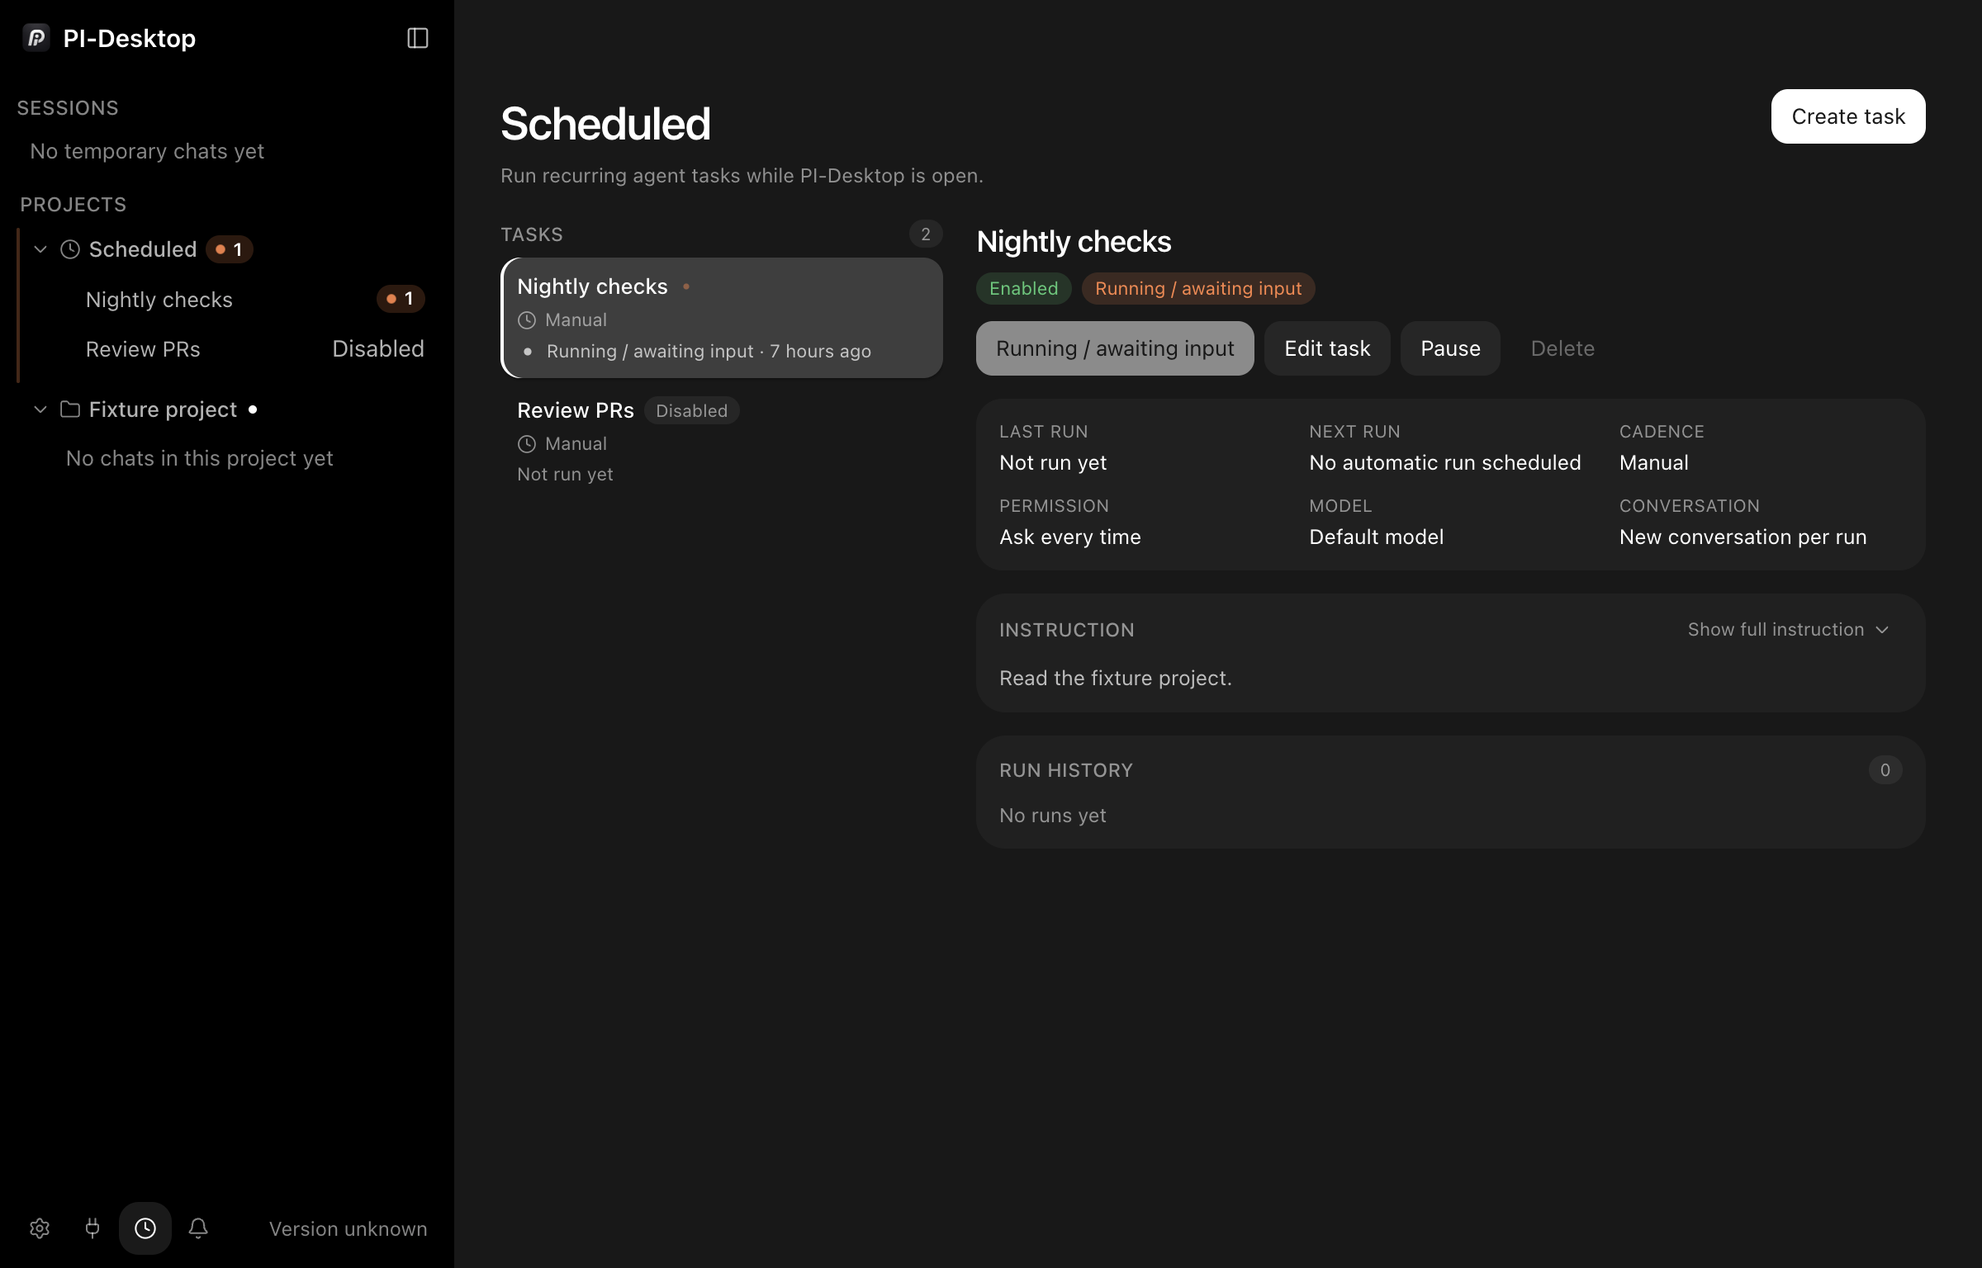
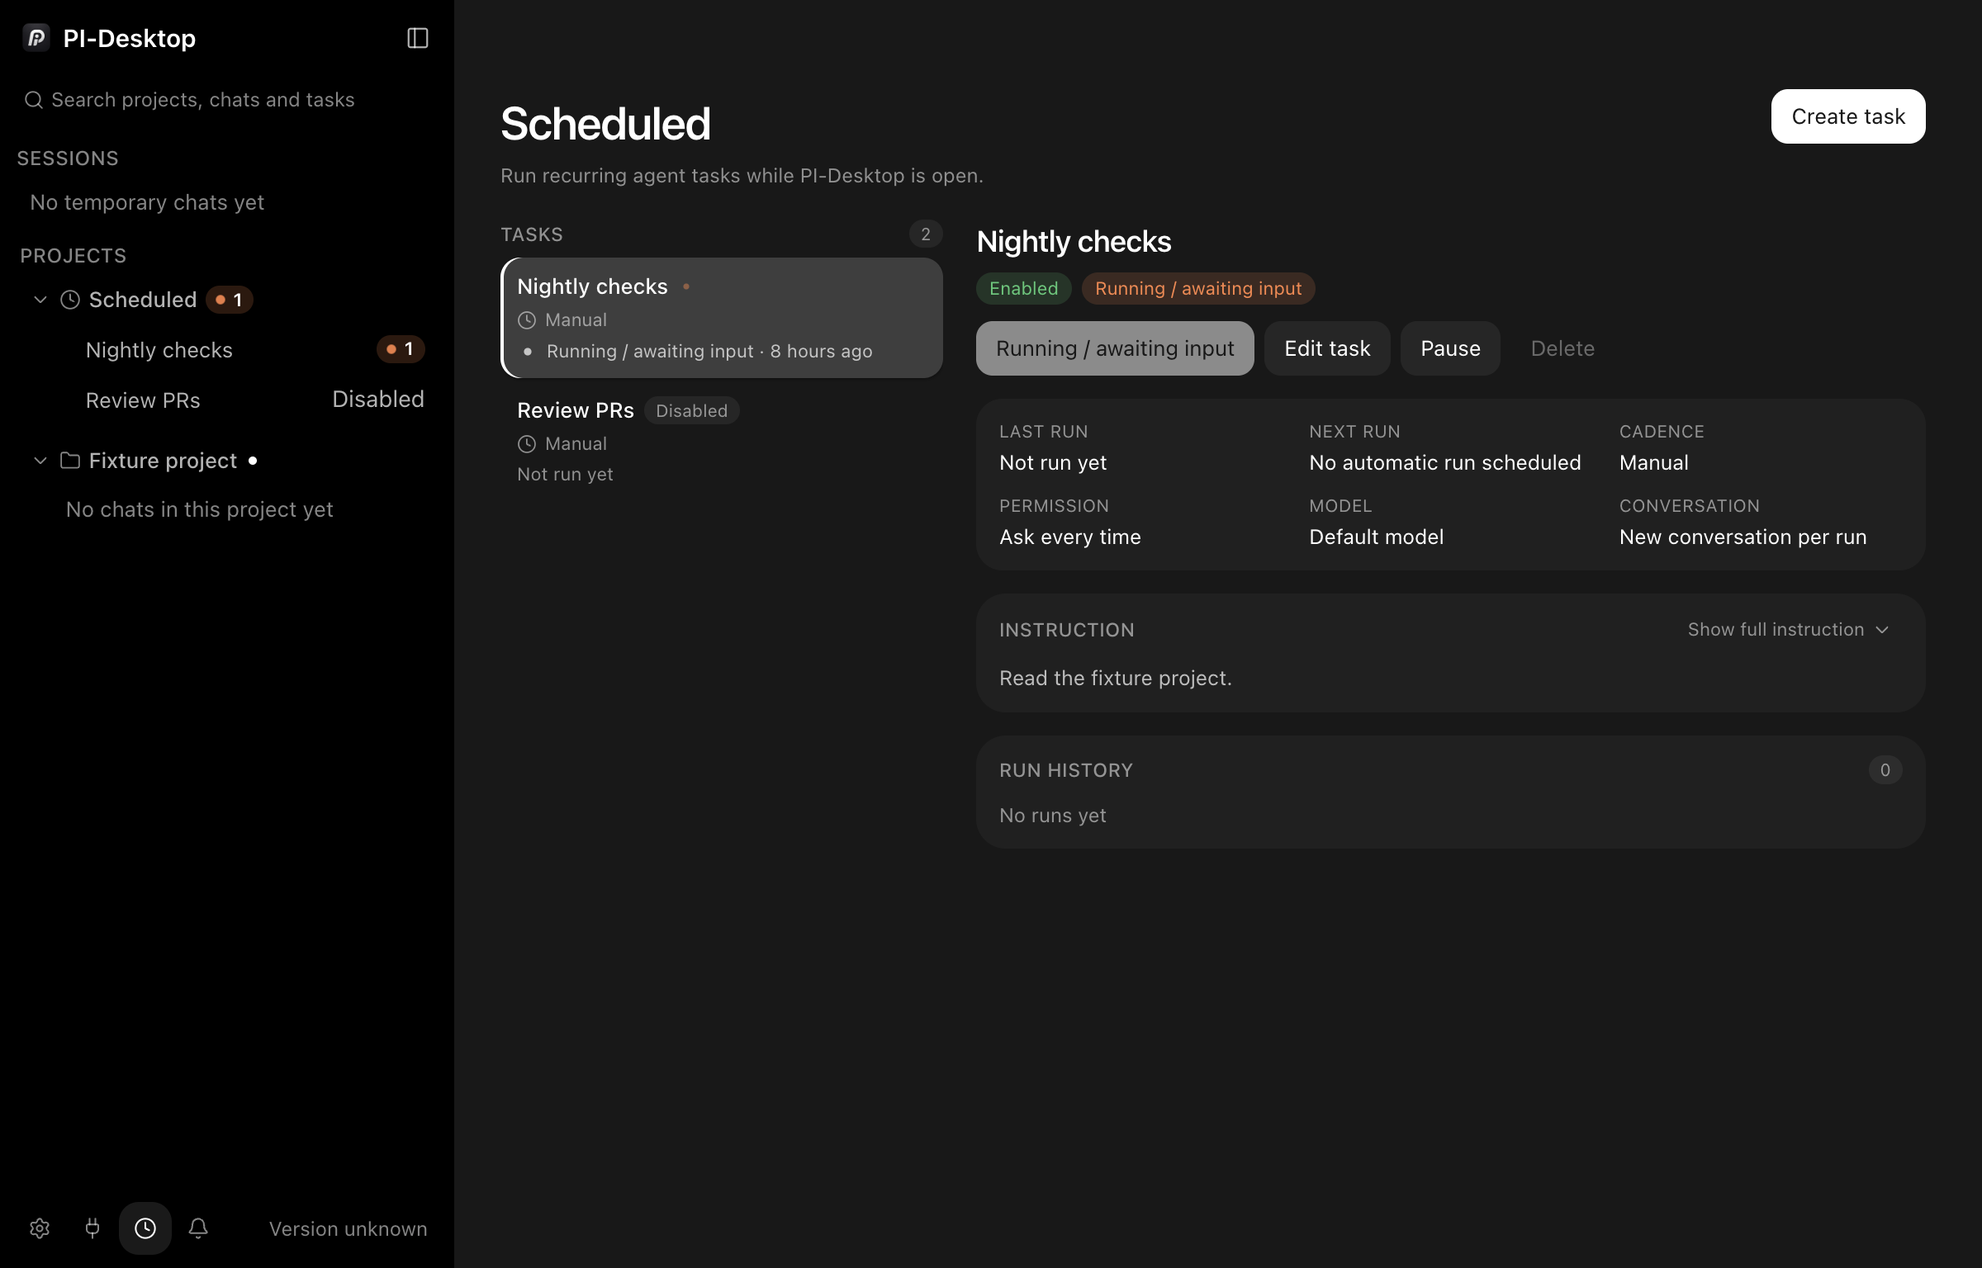
feat(sidebar): filter scheduled shortcuts with sidebar search
Make the display preference control task-name search, with temporary
expansion that preserves the saved fold state. Reuse the existing
sidebar query so task matches and empty states stay consistent.

Keep reads independent of query changes and exclude hidden results
from batch selection. Exercise the real renderer path with synthetic
IPC, including settings reload, loading, errors and stale responses.

diff --git a/apps/desktop/src/components/Sidebar.tsx b/apps/desktop/src/components/Sidebar.tsx
@@ -1,5 +1,6 @@
 import { IconClock } from "./icons";
 import { ScheduledSidebarGroup } from "../features/scheduled/ScheduledSidebarGroup";
+import { useSidebarScheduledTasks } from "../features/scheduled/use-sidebar-scheduled-tasks";
 import { RemoteProjectGroups } from "./remote/RemoteProjectGroups";
 import { groupRemoteProjectSessions, type RemoteProjectGroup } from "../lib/remote-project-catalog";
 import { isRemoteSession, sessionAllows } from "../lib/remote-session-safety";
@@ -16,7 +17,7 @@ import {
   type MouseEvent as ReactMouseEvent,
   type PointerEvent as ReactPointerEvent,
 } from "react";
-import { TooltipButton, cx } from "./ui";
+import { Input, TooltipButton, cx } from "./ui";
 
 import { portalToBody } from "../lib/portal-visibility";
 import {
@@ -27,6 +28,7 @@ import {
 import { useTranslation } from "react-i18next";
 import { api } from "../lib/api";
 import { formatSessionLastReplyDate } from "../lib/sidebar-session-date";
+import { matchesSidebarSearch } from "../lib/sidebar-search";
 import { SessionHoverCard } from "../features/sessions/SessionHoverCard";
 import { useSessionHoverCard } from "../features/sessions/useSessionHoverCard";
 import { isDefaultSessionTitle, useAppStore } from "../stores/app-store";
@@ -350,6 +352,9 @@ export function Sidebar({
   const [dropIndicator, setDropIndicator] = useState<{ key: string; insertAfter: boolean } | null>(null);
   const [windowFocused, setWindowFocused] = useState(true);
   const [searchQuery, setSearchQuery] = useState("");
+  const scheduledTasksEnabled = settings?.sidebarScheduledTasks === true;
+  const scheduledTasks = useSidebarScheduledTasks(scheduledTasksEnabled, searchQuery);
+  const searchPlaceholder = t(scheduledTasksEnabled ? "nav.searchWithTasksPlaceholder" : "nav.searchPlaceholder");
 
   const menuTriggerRef = useRef<HTMLButtonElement | null>(null);
   const menuFirstItemRef = useRef<HTMLButtonElement | null>(null);
@@ -1051,34 +1056,17 @@ export function Sidebar({
   const remoteProjectGroups = useMemo(() => groupRemoteProjectSessions(
     filtered.filter((session) => isRemoteSession(session) && !pinnedSessionIds.has(session.id)), compareSessions,
   ), [filtered, pinnedSessionIds, compareSessions]);
-  // Flat ordered list of every visible session id — used for Shift+click range selection.
-  const flatSessionOrder = useMemo(() => {
-    const ids: string[] = [];
-    // Pinned first (same order as rendered)
-    for (const s of pinnedSessions) ids.push(s.id);
-    // Then project sessions
-    for (const entry of projectEntries) {
-      for (const s of entry.sessions) {
-        if (!pinnedSessionIds.has(s.id)) ids.push(s.id);
-      }
-    }
-    for (const group of remoteProjectGroups) for (const session of group.sessions) ids.push(session.id);
-    // Then temporary (standalone) sessions
-    for (const s of temporarySessionHistory) ids.push(s.id);
-    return ids;
-  }, [pinnedSessions, projectEntries, pinnedSessionIds, temporarySessionHistory, remoteProjectGroups]);
-
   // Search filtering: when the query is non-empty, only show projects and sessions
   // whose name or title contains the query (case-insensitive).
   const searchQueryLower = searchQuery.trim().toLowerCase();
   const hasSearch = searchQueryLower.length > 0;
   const sessionMatchesSearch = useCallback(
-    (session: SessionSummary) => !hasSearch || taskTitle(session.title).toLowerCase().includes(searchQueryLower),
-    [hasSearch, searchQueryLower, taskTitle],
+    (session: SessionSummary) => matchesSidebarSearch(taskTitle(session.title), searchQueryLower),
+    [searchQueryLower, taskTitle],
   );
   const projectMatchesSearch = useCallback(
-    (name: string, path: string) => !hasSearch || name.toLowerCase().includes(searchQueryLower) || path.toLowerCase().includes(searchQueryLower),
-    [hasSearch, searchQueryLower],
+    (name: string, path: string) => matchesSidebarSearch(name, searchQueryLower) || matchesSidebarSearch(path, searchQueryLower),
+    [searchQueryLower],
   );
 
   const displayPinnedSessions = useMemo(
@@ -1116,6 +1104,24 @@ export function Sidebar({
       })
       .filter((group): group is RemoteProjectGroup => group !== null);
   }, [remoteProjectGroups, hasSearch, projectMatchesSearch, sessionMatchesSearch]);
+
+  const showNoSearchResults = hasSearch
+    && displayPinnedSessions.length === 0 && displayProjectEntries.length === 0
+    && displayTemporarySessionHistory.length === 0 && displayRemoteProjectGroups.length === 0
+    && (!scheduledTasksEnabled || (scheduledTasks.loaded && !scheduledTasks.error && scheduledTasks.tasks.length === 0));
+
+  // Range selection follows the filtered order, excluding hidden search results.
+  const flatSessionOrder = useMemo(() => {
+    const ids = displayPinnedSessions.map((session) => session.id);
+    for (const entry of displayProjectEntries) {
+      for (const session of entry.sessions) {
+        if (!pinnedSessionIds.has(session.id)) ids.push(session.id);
+      }
+    }
+    for (const group of displayRemoteProjectGroups) for (const session of group.sessions) ids.push(session.id);
+    for (const session of displayTemporarySessionHistory) ids.push(session.id);
+    return ids;
+  }, [displayPinnedSessions, displayProjectEntries, pinnedSessionIds, displayTemporarySessionHistory, displayRemoteProjectGroups]);
 
   /** Handle multi-select click on a session row. Returns true if the click was consumed by multi-select. */
   const handleMultiSelectClick = (event: React.MouseEvent, sessionId: string): boolean => {
@@ -1169,8 +1175,9 @@ export function Sidebar({
     return false;
   };
 
-  // Clear multi-select when sessions list changes (e.g. after batch delete)
-  const sessionIdSet = useMemo(() => new Set(sessions.map((s) => s.id)), [sessions]);
+  // Search must not retain hidden selections for batch actions.
+  const sessionIdSet = useMemo(() => new Set(hasSearch ? flatSessionOrder : sessions.map((s) => s.id)),
+    [hasSearch, flatSessionOrder, sessions]);
   useEffect(() => {
     if (selectedIds.size === 0) return;
     // Remove any selected ids that no longer exist
@@ -2641,23 +2648,23 @@ export function Sidebar({
 
         <div className="sidebar-search">
           <IconSearch size={13} className="sidebar-search-icon" aria-hidden />
-          <input
+          <Input
             type="text"
             className="sidebar-search-input"
-            placeholder={t("nav.searchPlaceholder", { defaultValue: "Search projects and chats" })}
+            placeholder={searchPlaceholder}
             value={searchQuery}
             onChange={(event) => setSearchQuery(event.target.value)}
-            aria-label={t("nav.search", { defaultValue: "Search" })}
+            aria-label={searchPlaceholder}
           />
           {searchQuery ? (
-            <button
+            <TooltipButton
               type="button"
               className="sidebar-search-clear"
               onClick={() => setSearchQuery("")}
-              aria-label={t("nav.clearSearch", { defaultValue: "Clear search" })}
+              tooltip={t("nav.clearSearch")}
             >
               <IconX size={12} />
-            </button>
+            </TooltipButton>
           ) : null}
         </div>
 
@@ -2806,10 +2813,8 @@ export function Sidebar({
           onDragLeave={onProjectsAreaDragLeave}
           onDrop={onProjectsAreaDrop}
         >
-          {settings?.sidebarScheduledTasks === true && <ScheduledSidebarGroup />}
-          {displayProjectEntries.length > 0 ? displayProjectEntries.map(renderProjectGroup) : hasSearch ? (
-            <div className="sidebar-session-empty">{t("nav.noSearchResults", { defaultValue: "No results" })}</div>
-          ) : (
+          {scheduledTasksEnabled && <ScheduledSidebarGroup {...scheduledTasks} />}
+          {displayProjectEntries.length > 0 ? displayProjectEntries.map(renderProjectGroup) : !hasSearch ? (
             <section className="sidebar-session-group" aria-labelledby="sidebar-project-group-label">
               <div className="sidebar-session-group-header">
                 <button type="button" id="sidebar-project-group-label" className="sidebar-session-group-title" onClick={() => void openProjectPicker()}>
@@ -2818,12 +2823,13 @@ export function Sidebar({
                 </button>
               </div>
             </section>
-          )}
+          ) : null}
           <RemoteProjectGroups groups={displayRemoteProjectGroups}
             renderSessions={(sessions) => renderSessionRows(sessions, {
               temporary: false,
               showLastReplyDate: settings?.sidebarSessionTime === true,
             })} />
+          {showNoSearchResults && <div className="sidebar-session-empty" role="status">{t("nav.noSearchResults")}</div>}
         </div>
 
         <div className="sidebar-footer no-drag">

diff --git a/apps/desktop/src/features/scheduled/ScheduledSidebarGroup.tsx b/apps/desktop/src/features/scheduled/ScheduledSidebarGroup.tsx
@@ -7,15 +7,16 @@ import { loadScheduledSidebarCollapsed, saveScheduledSidebarCollapsed } from "..
 import { resolveSidebarRunningAffordances, summarizeProjectRuns } from "../../lib/sidebar-project-runs";
 import { useAppStore } from "../../stores/app-store";
 import { latestRunByTask } from "./scheduled-runs";
-import { useSidebarScheduledTasks } from "./use-sidebar-scheduled-tasks";
+import type { useSidebarScheduledTasks } from "./use-sidebar-scheduled-tasks";
 
-export function ScheduledSidebarGroup() {
+export function ScheduledSidebarGroup({ tasks, runs, loaded, error, refresh, searching }:
+  ReturnType<typeof useSidebarScheduledTasks>) {
   const { t } = useTranslation();
   const settings = useAppStore((s) => s.settings);
   const pendingPermissions = useAppStore((s) => s.pendingPermissions);
   const openTask = useAppStore((s) => s.openScheduledTask);
-  const { tasks, runs, loaded, error, refresh } = useSidebarScheduledTasks();
   const [collapsed, setCollapsed] = useState(loadScheduledSidebarCollapsed);
+  const isCollapsed = collapsed && !searching;
   const affordances = resolveSidebarRunningAffordances(settings);
   const latestRuns = latestRunByTask(runs);
   const liveSessions = tasks.flatMap((task) => {
@@ -26,9 +27,11 @@ export function ScheduledSidebarGroup() {
   const summary = summarizeProjectRuns(liveSessions, running, pendingPermissions);
   const showRail = affordances.rail && summary.running + summary.waiting > 0;
 
+  if (searching && loaded && !error && tasks.length === 0) return null;
+
   return (
     <section
-      className={cx("sidebar-session-group project-group", showRail && "has-run-rail", collapsed && "is-collapsed")}
+      className={cx("sidebar-session-group project-group", showRail && "has-run-rail", isCollapsed && "is-collapsed")}
       data-sidebar-scheduled-group="tasks"
       aria-labelledby="sidebar-scheduled-label"
       onContextMenu={(event) => event.stopPropagation()}
@@ -39,15 +42,17 @@ export function ScheduledSidebarGroup() {
           type="button"
           id="sidebar-scheduled-label"
           className="sidebar-session-group-title"
-          aria-expanded={!collapsed}
+          aria-expanded={!isCollapsed}
           aria-controls="sidebar-scheduled-tasks"
+          aria-disabled={searching}
           onClick={() => {
+            if (searching) return;
             const next = !collapsed;
             setCollapsed(next);
             saveScheduledSidebarCollapsed(next);
           }}
         >
-          <IconChevronDown size={13} className={cx("sidebar-disclosure-icon", collapsed && "collapsed")} aria-hidden />
+          <IconChevronDown size={13} className={cx("sidebar-disclosure-icon", isCollapsed && "collapsed")} aria-hidden />
           <IconClock size={13} aria-hidden />
           <span>{t("scheduled.title")}</span>
           {affordances.badge && <ProjectRunBadge summary={summary} />}
@@ -55,9 +60,9 @@ export function ScheduledSidebarGroup() {
       </div>
       <div
         id="sidebar-scheduled-tasks"
-        className={cx("sidebar-session-group-body project", collapsed && "collapsed")}
-        aria-hidden={collapsed}
-        inert={collapsed}
+        className={cx("sidebar-session-group-body project", isCollapsed && "collapsed")}
+        aria-hidden={isCollapsed}
+        inert={isCollapsed}
       >
         <div className="sidebar-session-group-clip">
           <div className="sidebar-session-group-list">

diff --git a/apps/desktop/src/features/scheduled/use-sidebar-scheduled-tasks.ts b/apps/desktop/src/features/scheduled/use-sidebar-scheduled-tasks.ts
@@ -1,9 +1,10 @@
-import { useCallback, useEffect, useRef, useState } from "react";
+import { useCallback, useEffect, useMemo, useRef, useState } from "react";
 import type { ScheduledTask, ScheduledTaskRun } from "@pi-desktop/shared";
 import { api } from "../../lib/api";
+import { matchesSidebarSearch } from "../../lib/sidebar-search";
 
-/** Mounted only while shortcuts are enabled; the Host still owns execution. */
-export function useSidebarScheduledTasks() {
+/** Reads only while shortcuts are enabled; search filters the local task list. */
+export function useSidebarScheduledTasks(enabled: boolean, searchQuery: string) {
   const [tasks, setTasks] = useState<ScheduledTask[]>([]);
   const [runs, setRuns] = useState<ScheduledTaskRun[]>([]);
   const [loaded, setLoaded] = useState(false);
@@ -12,6 +13,7 @@ export function useSidebarScheduledTasks() {
   const revision = useRef(0);
 
   const refresh = useCallback(async () => {
+    if (!mounted.current) return;
     const request = ++revision.current;
     try {
       const [taskResult, runResult] = await Promise.all([
@@ -31,6 +33,13 @@ export function useSidebarScheduledTasks() {
   }, []);
 
   useEffect(() => {
+    if (!enabled) {
+      setTasks([]);
+      setRuns([]);
+      setLoaded(false);
+      setError("");
+      return;
+    }
     mounted.current = true;
     void refresh();
     // Match the Scheduled page, including task edits made in other windows.
@@ -43,7 +52,18 @@ export function useSidebarScheduledTasks() {
       clearInterval(timer);
       window.removeEventListener("focus", onFocus);
     };
-  }, [refresh]);
+  }, [enabled, refresh]);
 
-  return { tasks, runs, loaded, error, refresh };
+  const matchingTasks = useMemo(
+    () => enabled ? tasks.filter((task) => matchesSidebarSearch(task.title, searchQuery)) : [],
+    [enabled, tasks, searchQuery],
+  );
+  return {
+    tasks: matchingTasks,
+    runs: enabled ? runs : [],
+    loaded: enabled && loaded,
+    error: enabled ? error : "",
+    refresh,
+    searching: searchQuery.trim().length > 0,
+  };
 }

diff --git a/packages/i18n/src/locales/fr/index.ts b/packages/i18n/src/locales/fr/index.ts
@@ -221,6 +221,7 @@ export const fr = {
     "buildUnknown": "Version inconnue",
     "search": "Recherche",
     searchPlaceholder: "Rechercher projets et chats",
+    searchWithTasksPlaceholder: "Rechercher projets, chats et tâches",
     noSearchResults: "Aucun résultat",
     clearSearch: "Effacer la recherche",
     "actionWithShortcut": "{{action}} ({{shortcut}})",

diff --git a/packages/i18n/src/locales/de/index.ts b/packages/i18n/src/locales/de/index.ts
@@ -221,6 +221,7 @@ export const de = {
     "buildUnknown": "Version unbekannt",
     "search": "Suche",
     searchPlaceholder: "Projekte und Chats durchsuchen",
+    searchWithTasksPlaceholder: "Projekte, Chats und Aufgaben durchsuchen",
     noSearchResults: "Keine Ergebnisse",
     clearSearch: "Suche löschen",
     "actionWithShortcut": "{{action}} ({{shortcut}})",

diff --git a/packages/i18n/src/locales/ko/index.ts b/packages/i18n/src/locales/ko/index.ts
@@ -230,6 +230,7 @@ export const ko = {
     buildUnknown: "버전 알 수 없음",
     search: "검색",
     searchPlaceholder: "프로젝트 및 채팅 검색",
+    searchWithTasksPlaceholder: "프로젝트, 채팅 및 작업 검색",
     noSearchResults: "결과 없음",
     clearSearch: "검색 지우기",
     actionWithShortcut: "{{action}} ({{shortcut}})",

diff --git a/packages/i18n/src/locales/pt-BR/index.ts b/packages/i18n/src/locales/pt-BR/index.ts
@@ -220,6 +220,7 @@ export const ptBR = {
     buildUnknown: "Versão desconhecida",
     search: "Pesquisar",
     searchPlaceholder: "Pesquisar projetos e chats",
+    searchWithTasksPlaceholder: "Pesquisar projetos, chats e tarefas",
     noSearchResults: "Nenhum resultado",
     clearSearch: "Limpar pesquisa",
     actionWithShortcut: "{{action}} ({{shortcut}})",

diff --git a/packages/i18n/src/locales/es/index.ts b/packages/i18n/src/locales/es/index.ts
@@ -221,6 +221,7 @@ export const es = {
     "buildUnknown": "Versión desconocida",
     "search": "Buscar",
     searchPlaceholder: "Buscar proyectos y chats",
+    searchWithTasksPlaceholder: "Buscar proyectos, chats y tareas",
     noSearchResults: "Sin resultados",
     clearSearch: "Borrar búsqueda",
     "actionWithShortcut": "{{action}} ({{shortcut}})",

diff --git a/packages/i18n/src/locales/zh-CN/index.ts b/packages/i18n/src/locales/zh-CN/index.ts
@@ -223,6 +223,7 @@ export const zhCN = {
     buildUnknown: "版本未知",
     search: "搜索",
     searchPlaceholder: "搜索项目和对话",
+    searchWithTasksPlaceholder: "搜索项目、对话和定时任务",
     noSearchResults: "无结果",
     clearSearch: "清除搜索",
     actionWithShortcut: "{{action}}（{{shortcut}}）",

diff --git a/packages/i18n/src/locales/zh-TW/index.ts b/packages/i18n/src/locales/zh-TW/index.ts
@@ -223,6 +223,7 @@ export const zhTW = {
     buildUnknown: "版本未知",
     search: "搜尋",
     searchPlaceholder: "搜尋專案與對話",
+    searchWithTasksPlaceholder: "搜尋專案、對話與排程任務",
     noSearchResults: "無結果",
     clearSearch: "清除搜尋",
     actionWithShortcut: "{{action}}（{{shortcut}}）",

diff --git a/packages/i18n/src/locales/en/index.ts b/packages/i18n/src/locales/en/index.ts
@@ -228,6 +228,7 @@ export const en = {
     buildUnknown: "Version unknown",
     search: "Search",
     searchPlaceholder: "Search projects and chats",
+    searchWithTasksPlaceholder: "Search projects, chats and tasks",
     noSearchResults: "No results",
     clearSearch: "Clear search",
     actionWithShortcut: "{{action}} ({{shortcut}})",

diff --git a/packages/i18n/src/locales/tr/index.ts b/packages/i18n/src/locales/tr/index.ts
@@ -230,6 +230,7 @@ export const tr = {
     buildUnknown: "Sürüm bilinmiyor",
     search: "Ara",
     searchPlaceholder: "Proje ve sohbet ara",
+    searchWithTasksPlaceholder: "Proje, sohbet ve görev ara",
     noSearchResults: "Sonuç yok",
     clearSearch: "Aramayı temizle",
     "actionWithShortcut": "{{action}} ({{shortcut}})",
